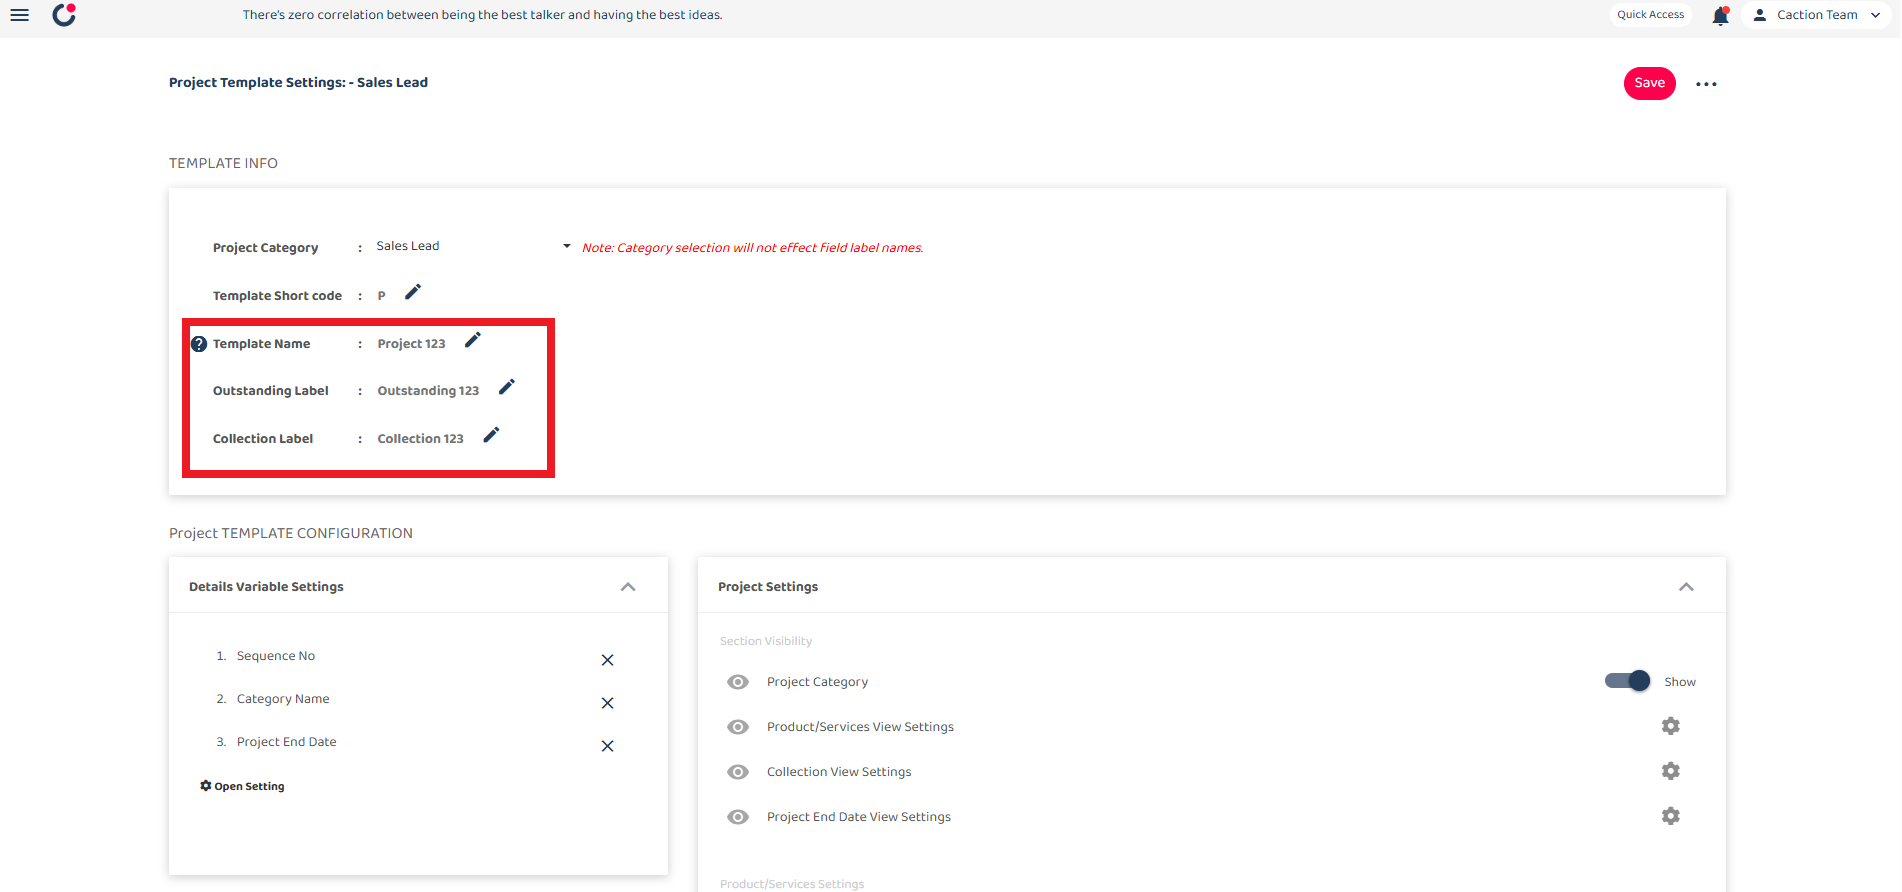
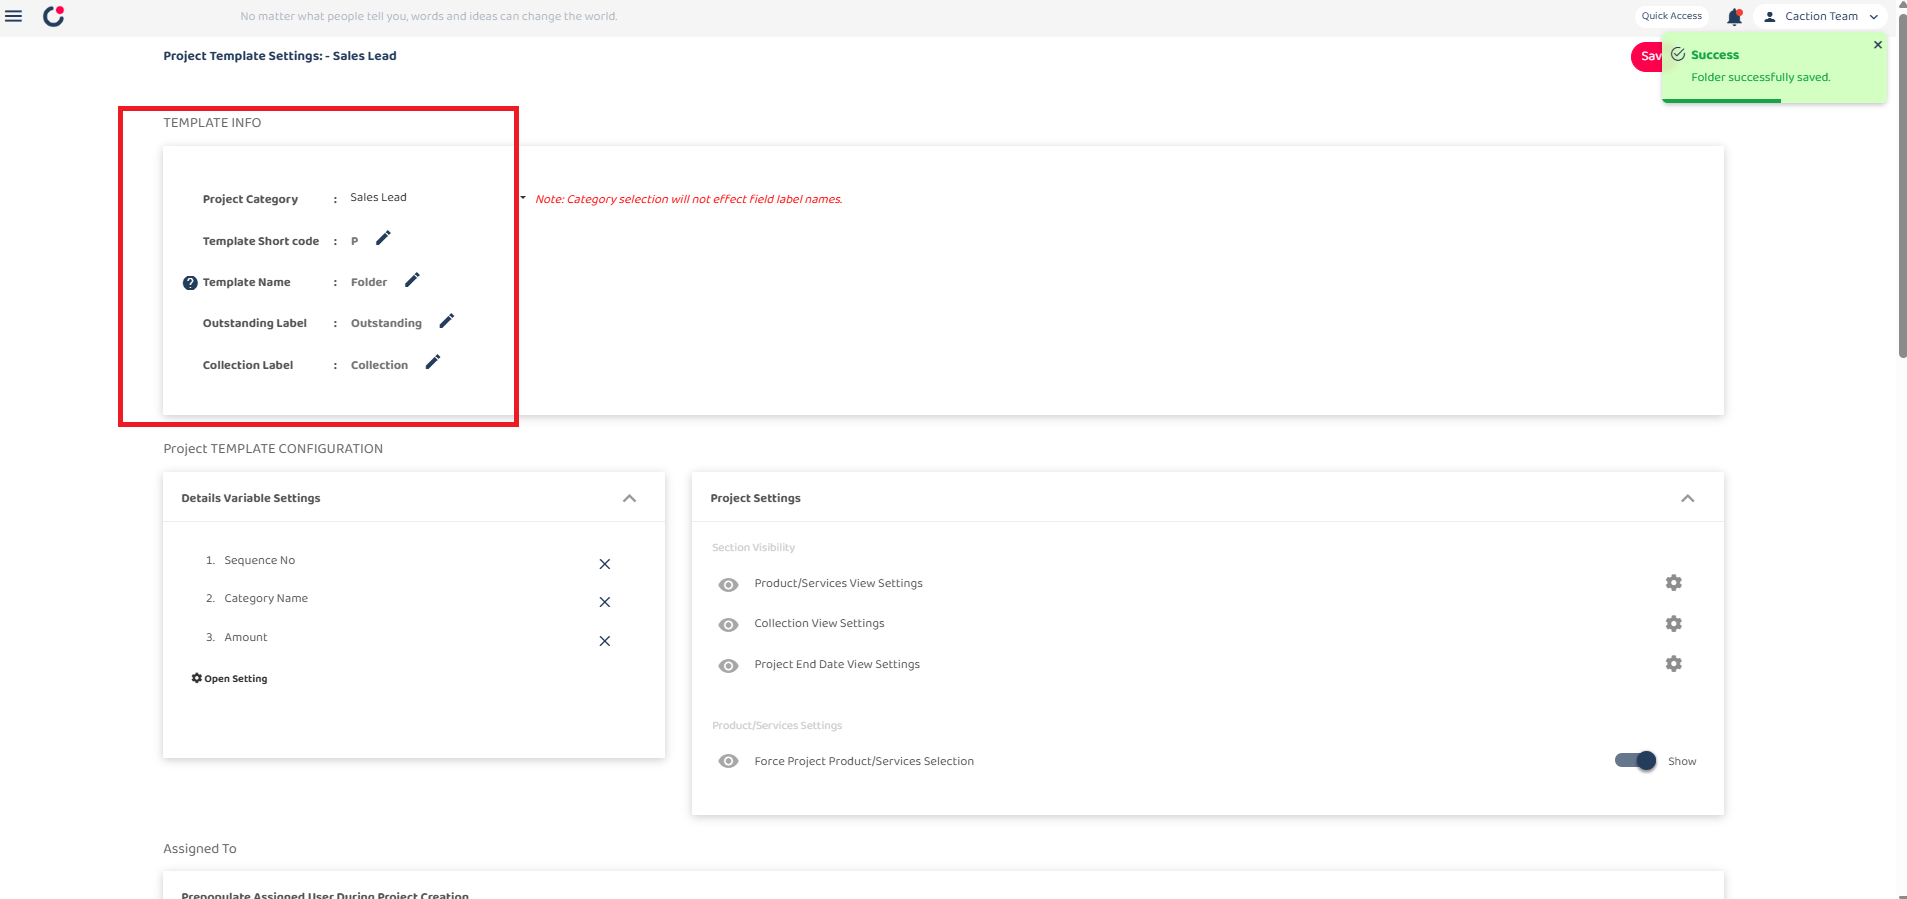
small change

diff --git a/docs/How_edit_or_update_data_inside_system.md b/docs/How_edit_or_update_data_inside_system.md
@@ -1,4 +1,4 @@
-## How to Edit/Update Data Inside System ? (For All Data Level Except Public Form)
+## How to Edit/Update Data Inside System (For All Data Level Except Public Form)
 
 _Note: If you do not have access to the Edit or Update, please contact your admin._
 
@@ -50,7 +50,7 @@ _Note: If you do not have access to the Edit or Update, please contact your admi
 
 <br>
 
-3. Click on the eclipse icon to access the edit job section
+3. Click on the ellipsis icon to access the job options.
 
 <br>
 
@@ -60,7 +60,7 @@ _Note: If you do not have access to the Edit or Update, please contact your admi
 
 <br>
 
-4. Prefer Click on the job details button to view comprehensive information about the job in a new tab.
+4. For more detailed editing, click on the "Job Details" button to view comprehensive information about the job in a new tab.
 
 <br>
 
@@ -70,7 +70,7 @@ _Note: If you do not have access to the Edit or Update, please contact your admi
 
 <br>
 
-4. Click on the pencil icon to access the edit job section
+5. Click on the pencil icon to access the edit job section.
 
 <br>
 
@@ -80,10 +80,9 @@ _Note: If you do not have access to the Edit or Update, please contact your admi
 
 <br>
 
-5. The first section contains "Job Category" and "Status" fields:
-
-- The "Job Category" field defines the type or classification of the job within the system.
-- The "Status" field indicates the current state of the job in its workflow.
+6. The first section contains "Job Category" and "Status" fields:
+   - The "Job Category" field defines the type or classification of the job within the system.
+   - The "Status" field indicates the current state of the job in its workflow.
 
 <br>
 
@@ -93,7 +92,7 @@ _Note: If you do not have access to the Edit or Update, please contact your admi
 
 <br>
 
-6. this pencil icon in customer section is to change the customer and project associated with this job. When clicked, you can select a different customer and project to attach to this job.
+7. The pencil icon in the customer section allows you to change the customer and project associated with this job. When clicked, you can select a different customer and project to attach to this job.
 
 <br>
 
@@ -101,7 +100,9 @@ _Note: If you do not have access to the Edit or Update, please contact your admi
    <img src="img/Job_Edit_Step_7.png" alt="Job Edit Step 7">
 </p>
 
-7. The Asset section can be click to see the details of asset. In asset list, you can filter out the assets and add asset on it.
+<br>
+
+8. Click on the Asset section to view asset details. In the asset list, you can filter assets and add new ones.
 
 <br>
 
@@ -111,7 +112,7 @@ _Note: If you do not have access to the Edit or Update, please contact your admi
 
 <br>
 
-8. Next section is start date time and end date time, when click it will open a small calender and can change the schedule of time.
+9. The next section displays start date/time and end date/time. Click on either field to open a calendar where you can change the job schedule.
 
 <br>
 
@@ -121,7 +122,7 @@ _Note: If you do not have access to the Edit or Update, please contact your admi
 
 <br>
 
-9. The "Assign User" feature allows you to assign team members to jobs which grant "View" or "Assign" permissions.
+10. The "Assign User" feature allows you to assign team members to jobs and grant them "View" or "Assign" permissions.
 
 <br>
 
@@ -131,7 +132,7 @@ _Note: If you do not have access to the Edit or Update, please contact your admi
 
 <br>
 
-10. The Reminder section allows users to manage reminders for different tasks.
+11. The Reminder section allows users to manage reminders for different tasks.
 
 <br>
 
@@ -141,7 +142,7 @@ _Note: If you do not have access to the Edit or Update, please contact your admi
 
 <br>
 
-11. After fill out all information, click "save" button to save it in system.
+12. After filling out all information, click the "Save" button to save your changes in the system.
 
 <br>
 
@@ -155,3 +156,107 @@ _Note: If you do not have access to the Edit or Update, please contact your admi
 <a id="section3"></a>
 
 # How to Edit Project
+
+1. At the desktop site navigation bar, select the Dashboard and navigate to Project section.
+
+<br>
+
+<p align="center">
+   <img src="img/Job_Project_Step_1.png" alt="Job Project Step 1">
+</p>
+
+<br>
+
+2. Select an existing project that you want to edit.
+
+<br>
+
+<p align="center">
+   <img src="img/Job_Project_Step_2.png" alt="Job Project Step 2">
+</p>
+
+<br>
+
+3. The project can be edited directly on the dashboard by clicking the pencil icon.
+
+<br>
+
+<p align="center">
+   <img src="img/Job_Project_Step_3.png" alt="Job Project Step 3">
+</p>
+
+<br>
+
+4. For more comprehensive editing options, click on the "Project Details" button to view complete information about the project in a new tab.
+
+<br>
+
+<p align="center">
+   <img src="img/Job_Project_Step_4.png" alt="Job Project Step 4">
+</p>
+
+<br>
+
+5. In the Project Details view, locate the options menu (three dots) in the upper right corner of the screen.
+
+<br>
+
+<p align="center">
+   <img src="img/Job_Project_Step_5.png" alt="Job Project Step 5">
+</p>
+
+<br>
+
+6. Select "Edit" from the dropdown menu options.
+
+<br>
+
+<p align="center">
+   <img src="img/Job_Project_Step_6.png" alt="Job Project Step 6">
+</p>
+
+<br>
+
+7. The Edit Project form will open with several sections to modify:
+
+<br>
+
+<p align="center">
+   <img src="img/Job_Project_Step_7.png" alt="Job Project Step 7">
+</p>
+
+<br>
+
+<p align="center">
+   <img src="img/Job_Project_Step_8.png" alt="Job Project Step 8">
+</p>
+
+<br>
+
+# Project Edit Form
+
+| No. | Section                      | Description                                                                                                                                    |
+| --- | ---------------------------- | ---------------------------------------------------------------------------------------------------------------------------------------------- |
+| 1   | **Category and Status**      | Defines the project type or classification and indicates the current state of the project in its workflow.                                     |
+| 2   | **Start and End Dates**      | Sets the project timeline by selecting when the project begins and ends. Click to open a calendar picker and select the dates and times.       |
+| 3   | **Title and Description**    | The name of the project that appears in listings and reports, and provides detailed information about the project's purpose, scope, and goals. |
+| 4   | **Reminder Settings**        | Enable reminders for the project and create custom reminders for specific project milestones or events.                                        |
+| 5   | **Asset Information**        | Enter the identification for equipment, property, or other assets associated with the project and link additional assets.                      |
+| 6   | **Assign List**              | View the team members assigned to the project and assign users to work on the project.                                                         |
+| 7   | **Product/Services Details** | Add and manage products or services associated with the project.                                                                               |
+
+<br>
+
+**Note:** Contact your manager to enable additional custom fields for your specific business needs.
+
+<br>
+
+8. After editing the details, click the "Save Changes" button to update the project information.
+
+<br>
+
+<p align="center">
+   <img src="img/Job_Project_Step_9.png" alt="Job Project Step 9">
+</p>
+
+<br>

diff --git a/docs/How_To_Use_Project_Template.md b/docs/How_To_Use_Project_Template.md
@@ -1,12 +1,10 @@
 ## How to Set Up Project Template?
 
-**Project Template** displays a standardized format or pre-defined structure in project management software designed to help you set up new projects quickly and efficiently.
-
-_Note: The template configuration for these functions will affect the web and mobile app_
+**Project Template** controls the structure and required fields for a project, ensuring consistency and efficiency. It allows you to define what information must be filled in when creating a new project.
 
 <br>
 
-**Navigate to the section by clicking it.**<br>
+**Click on a section below to navigate.**<br>
 
 - [Template Info](#section1)<br>
 - [Details Variable Settings](#section2)<br>
@@ -15,6 +13,10 @@ _Note: The template configuration for these functions will affect the web and mo
 - [Default Field](#section5)<br>
 - [Custom Field](#section6)
   <br><br>
+
+  _Note: The template configuration will affect both the web and mobile applications. If you do not have access to the Template Settings page, please contact your admin._
+
+  To access and configure a Project Template, follow these steps:
 
 1. From the desktop's navigation bar:
 
@@ -61,7 +63,7 @@ The Template Info section contains 5 fields:<br>
 
 <br>
 
-In the Template Info section, you can customize several important labels. When we change the Template name to "Project 123", Outstanding label to "Outstanding 123", and Collection label to "Collection 123":
+In the Template Info section, you can customize several important labels. When we change the Template name from "Project" to "Folder", Outstanding label remain to "Outstanding", and Collection label remain to "Collection":
 
 <br>
 <p align="center">
@@ -111,7 +113,7 @@ After saving, your project dashboard will display the "amount" information in th
 
 # Project Settings
 
-4. The Project Settings allows you to control various visibility and Product/Services settings for your project management system.
+4. Project Settings in the Project Template control section visibility and configure Product/Service settings for projects. This ensures that only relevant sections are displayed and that product/service options align with project requirements.
 
 <br>
 <p align="center">
